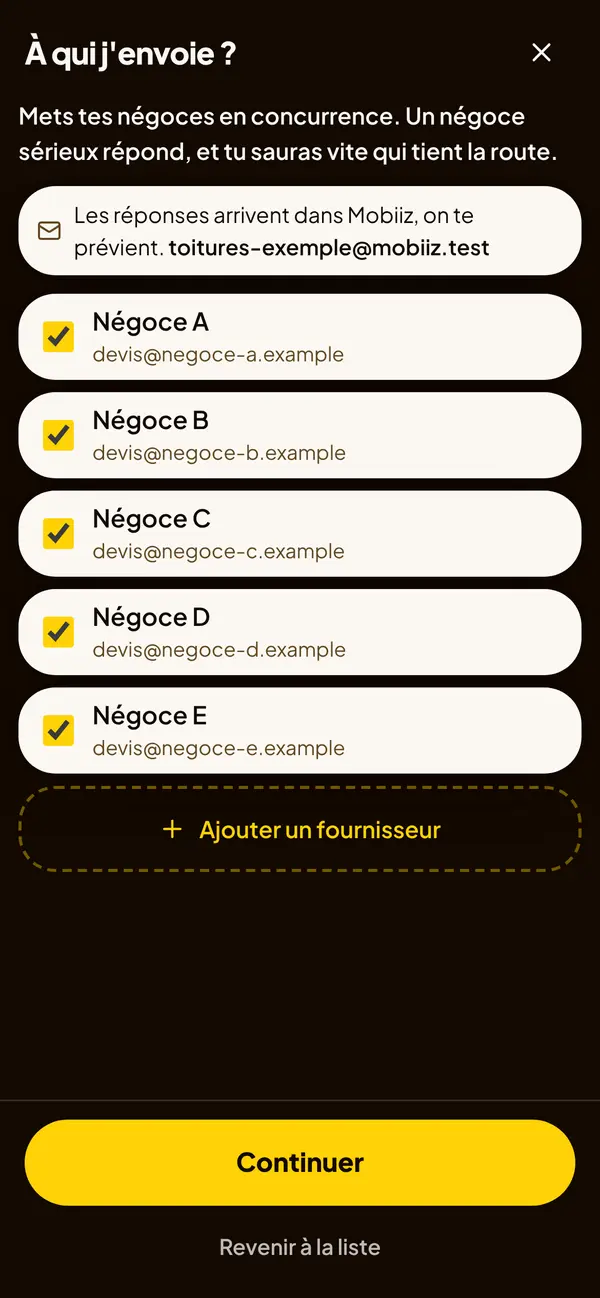
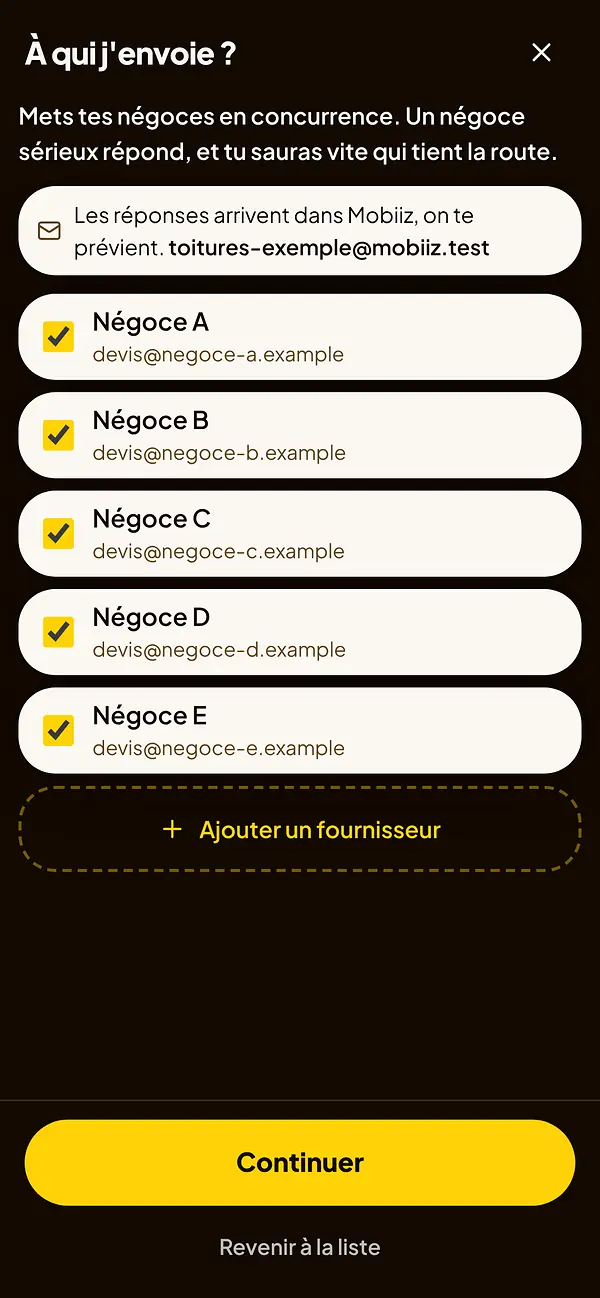
Landing : écrans des téléphones nets sur ordinateur (captures haute définition, téléphones plus grands, moins inclinés)
Claude-Session: https://claude.ai/code/session_0188g8PcmvctNcTq82VPRdt3

Changed region(s): [[0.27, 0.4006, 0.3, 0.4314], [0.24, 0.5547, 0.27, 0.5855], [0.24, 0.339, 0.27, 0.3698]]

diff --git a/baticlair/apps/web/src/app/(public)/decouvrir/premium.css b/baticlair/apps/web/src/app/(public)/decouvrir/premium.css
@@ -394,13 +394,13 @@ html:has(.mzp){scroll-behavior:smooth;scroll-padding-top:90px}
 .mz2-etape h3{font-size:21px;line-height:1.2;letter-spacing:-.03em;margin:4px 0 6px;font-weight:850}
 .mz2-etape-texte p{font-size:15px;line-height:1.5;color:#5E574D;margin:0}
 /* Le téléphone : un cadre neutre (aucune marque), une vraie capture de l'app dedans (Greg, 31 octobre 2026). */
-.mz2-tel{position:relative;width:228px;margin:30px auto 0;border-radius:40px;background:linear-gradient(145deg,#2A241C,#0E0B08 60%);padding:8px;box-shadow:0 30px 60px rgba(37,22,7,.24),0 8px 18px rgba(37,22,7,.12),inset 0 0 0 1.5px #4A4135,inset 0 0 0 3px #0E0B08}
+.mz2-tel{position:relative;width:264px;margin:30px auto 0;backface-visibility:hidden;border-radius:40px;background:linear-gradient(145deg,#2A241C,#0E0B08 60%);padding:8px;box-shadow:0 30px 60px rgba(37,22,7,.24),0 8px 18px rgba(37,22,7,.12),inset 0 0 0 1.5px #4A4135,inset 0 0 0 3px #0E0B08}
 .mz2-tel:before,.mz2-tel:after{content:'';position:absolute;width:3px;border-radius:2px;background:#2A241C}
 .mz2-tel:before{left:-3px;top:96px;height:44px}
 .mz2-tel:after{right:-3px;top:120px;height:64px}
-.mz2-tel-1{transform:rotate(-8deg)}
-.mz2-tel-2{transform:rotate(3deg) translateY(12px)}
-.mz2-tel-3{transform:rotate(9deg) translateY(-4px)}
+.mz2-tel-1{transform:rotate(-6deg)}
+.mz2-tel-2{transform:rotate(2.5deg) translateY(12px)}
+.mz2-tel-3{transform:rotate(6deg) translateY(-4px)}
 .mz2-tel-ecran{position:relative;overflow:hidden;border-radius:32px;background:#0C0A08;aspect-ratio:9/19.5;display:flex;flex-direction:column}
 .mz2-tel-ecran:after{content:'';position:absolute;inset:0;border-radius:inherit;pointer-events:none;background:linear-gradient(115deg,rgba(255,255,255,.1) 0%,rgba(255,255,255,0) 32%);box-shadow:inset 0 0 0 1px rgba(255,255,255,.06)}
 .mz2-tel-barre{flex-shrink:0;display:flex;justify-content:space-between;align-items:center;padding:9px 16px 5px 20px;font-size:10px;font-weight:800;color:#FBF8F3;letter-spacing:.01em}

diff --git a/baticlair/apps/web/src/app/(public)/decouvrir/landing-premium.tsx b/baticlair/apps/web/src/app/(public)/decouvrir/landing-premium.tsx
@@ -151,8 +151,19 @@ function Telephone({ n }: { n: number }) {
           <span className="mz2-tel-ilot" />
           <span className="mz2-tel-etat" />
         </div>
+        {/* Greg, 31 octobre 2026, soir (« ça pixelise sur PC ») : la capture d'origine (1170 px) et deux tailles plus
+            légères ; l'écran incliné est servi au double de sa taille au moins, pour un texte net. */}
         {/* eslint-disable-next-line @next/next/no-img-element -- une capture déjà optimisée (WebP, 600 px), chargée tard */}
-        <img src={e.src} alt={e.alt} width={600} height={1298} loading="lazy" decoding="async" />
+        <img
+          src={e.src}
+          srcSet={`${e.src} 600w, ${e.src.replace(".webp", "-900.webp")} 900w, ${e.src.replace(".webp", "-1170.webp")} 1170w`}
+          sizes="(max-width: 900px) 150px, 400px"
+          alt={e.alt}
+          width={1170}
+          height={2532}
+          loading="lazy"
+          decoding="async"
+        />
       </div>
       {n === 2 ? <figcaption className="mz2-tel-exemple">Exemple</figcaption> : null}
     </figure>

diff --git a/baticlair/apps/web/e2e/parcours-artisan.spec.ts b/baticlair/apps/web/e2e/parcours-artisan.spec.ts
@@ -2630,7 +2630,8 @@ test("La page d'accueil publique : un visiteur la voit à la racine, un artisan 
     const img = ecrans.nth(i);
     await img.scrollIntoViewIfNeeded();
     await expect(img).toHaveAttribute("src", `/landing/v3/${nom}.webp`);
-    await expect.poll(() => img.evaluate((e: HTMLImageElement) => e.complete && e.naturalWidth)).toBe(600);
+    // Greg, 31 octobre 2026, soir : jamais une capture plus petite que deux fois l'écran affiché (texte net, sans pixels).
+    await expect.poll(() => img.evaluate((e: HTMLImageElement) => e.complete && e.naturalWidth >= 600 && e.naturalWidth >= 2 * e.getBoundingClientRect().width)).toBe(true);
   }
   await expect(page.locator("#fonctionnement").getByText(/iPhone|Apple/)).toHaveCount(0);
   await expect(page.getByText(/Recommandé/)).toHaveCount(0);

diff --git a/baticlair/docs/SUIVI.md b/baticlair/docs/SUIVI.md
@@ -199,3 +199,4 @@ Ce message fait foi sur le précédent. Rapport en 10 lignes envoyé le 27/10, p
 | 148 | 31/10 | Titres collés sur téléphone ; « Le prochain bon prix » avant les questions | fait | Interlettrage mobile ouvert ; ordre des sections changé ; e2e « La page d'accueil publique » complété. |
 | 149 | 31/10 | Page Tarifs : plus de marron, classe et premium dans la DA | fait | Cartes sombres à filet, prix en grand, coches jaunes ; e2e Abonnement adapté. |
 | 150 | 31/10 | Cohérence Tarifs / CGU (sans modifier les CGU) | fait (rapport) | 8 contradictions relevées, toutes déjà corrigées dans la proposition de CGU du 30 octobre, sauf la commission dans les conditions négoces et l'essai encore actif en mode négocié. CGU en ligne inchangées. |
+| 151 | 31/10 | Les trois téléphones pixelisent sur PC | fait | Captures d'origine 1170 px + 900 px en WebP 92 (srcset, servies au double de l'affichage), téléphones 264 px, inclinaison réduite (-6°, 2,5°, 6°) ; e2e vérifie la netteté. |
